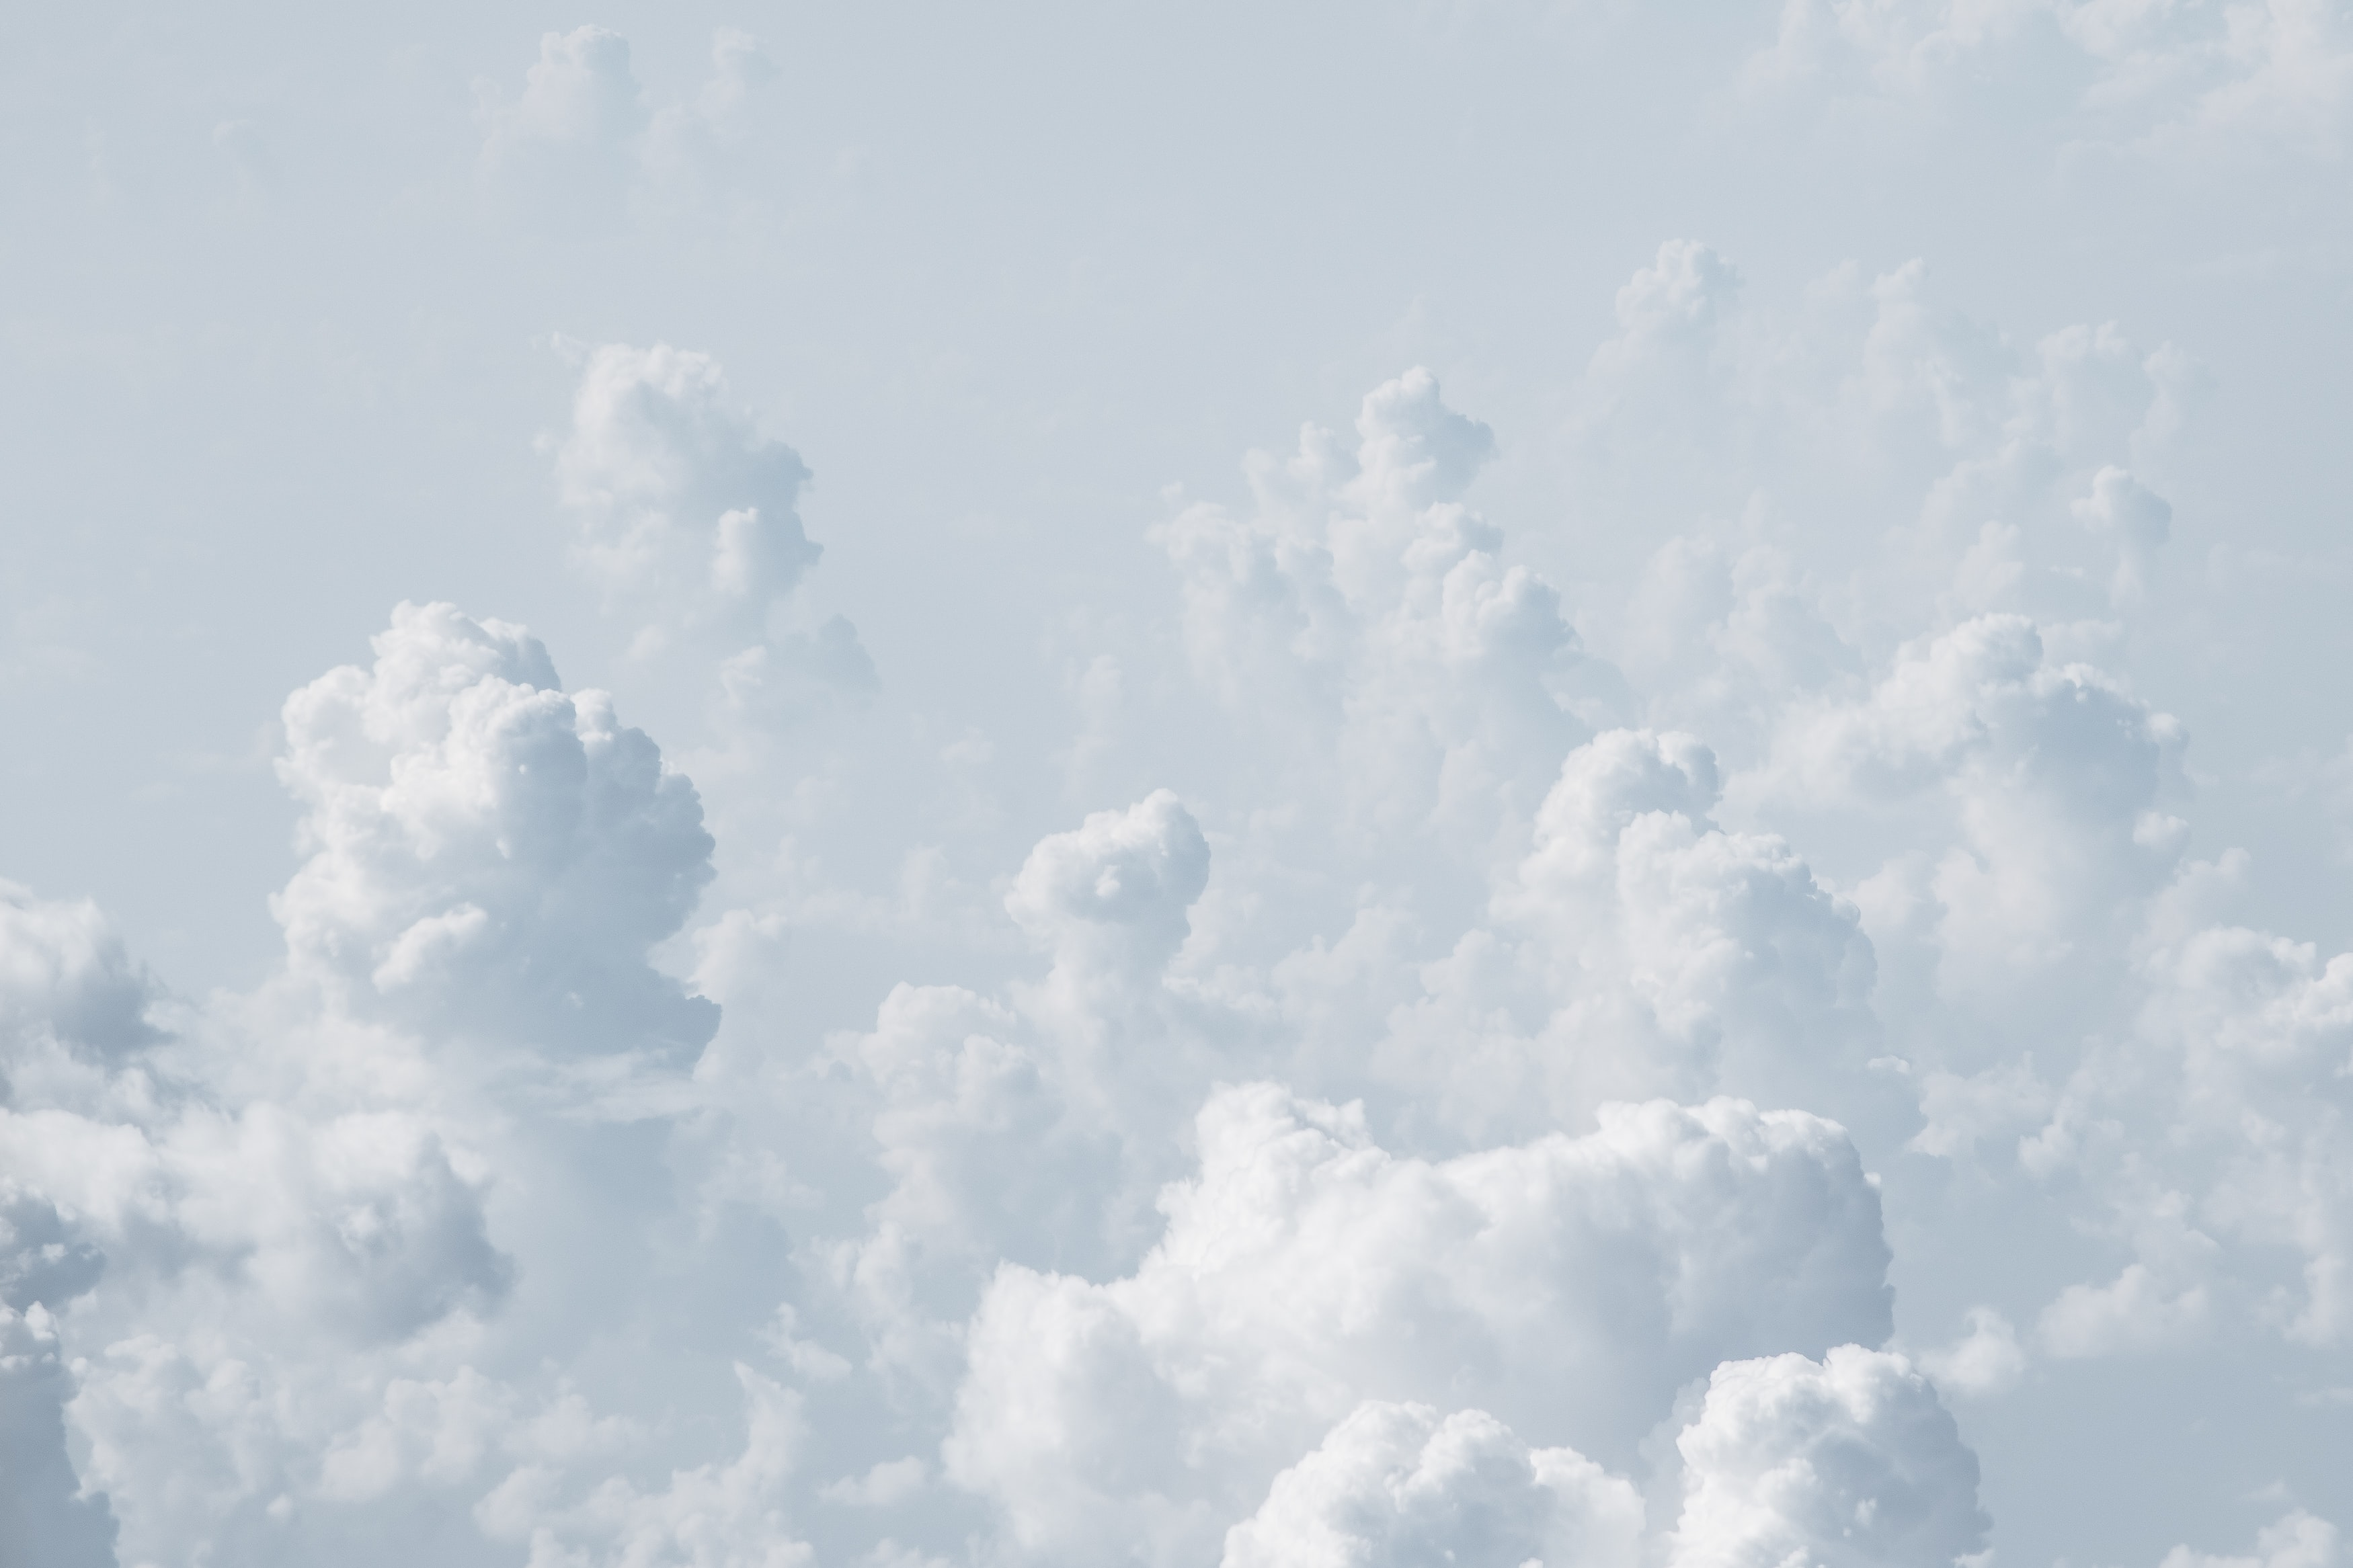
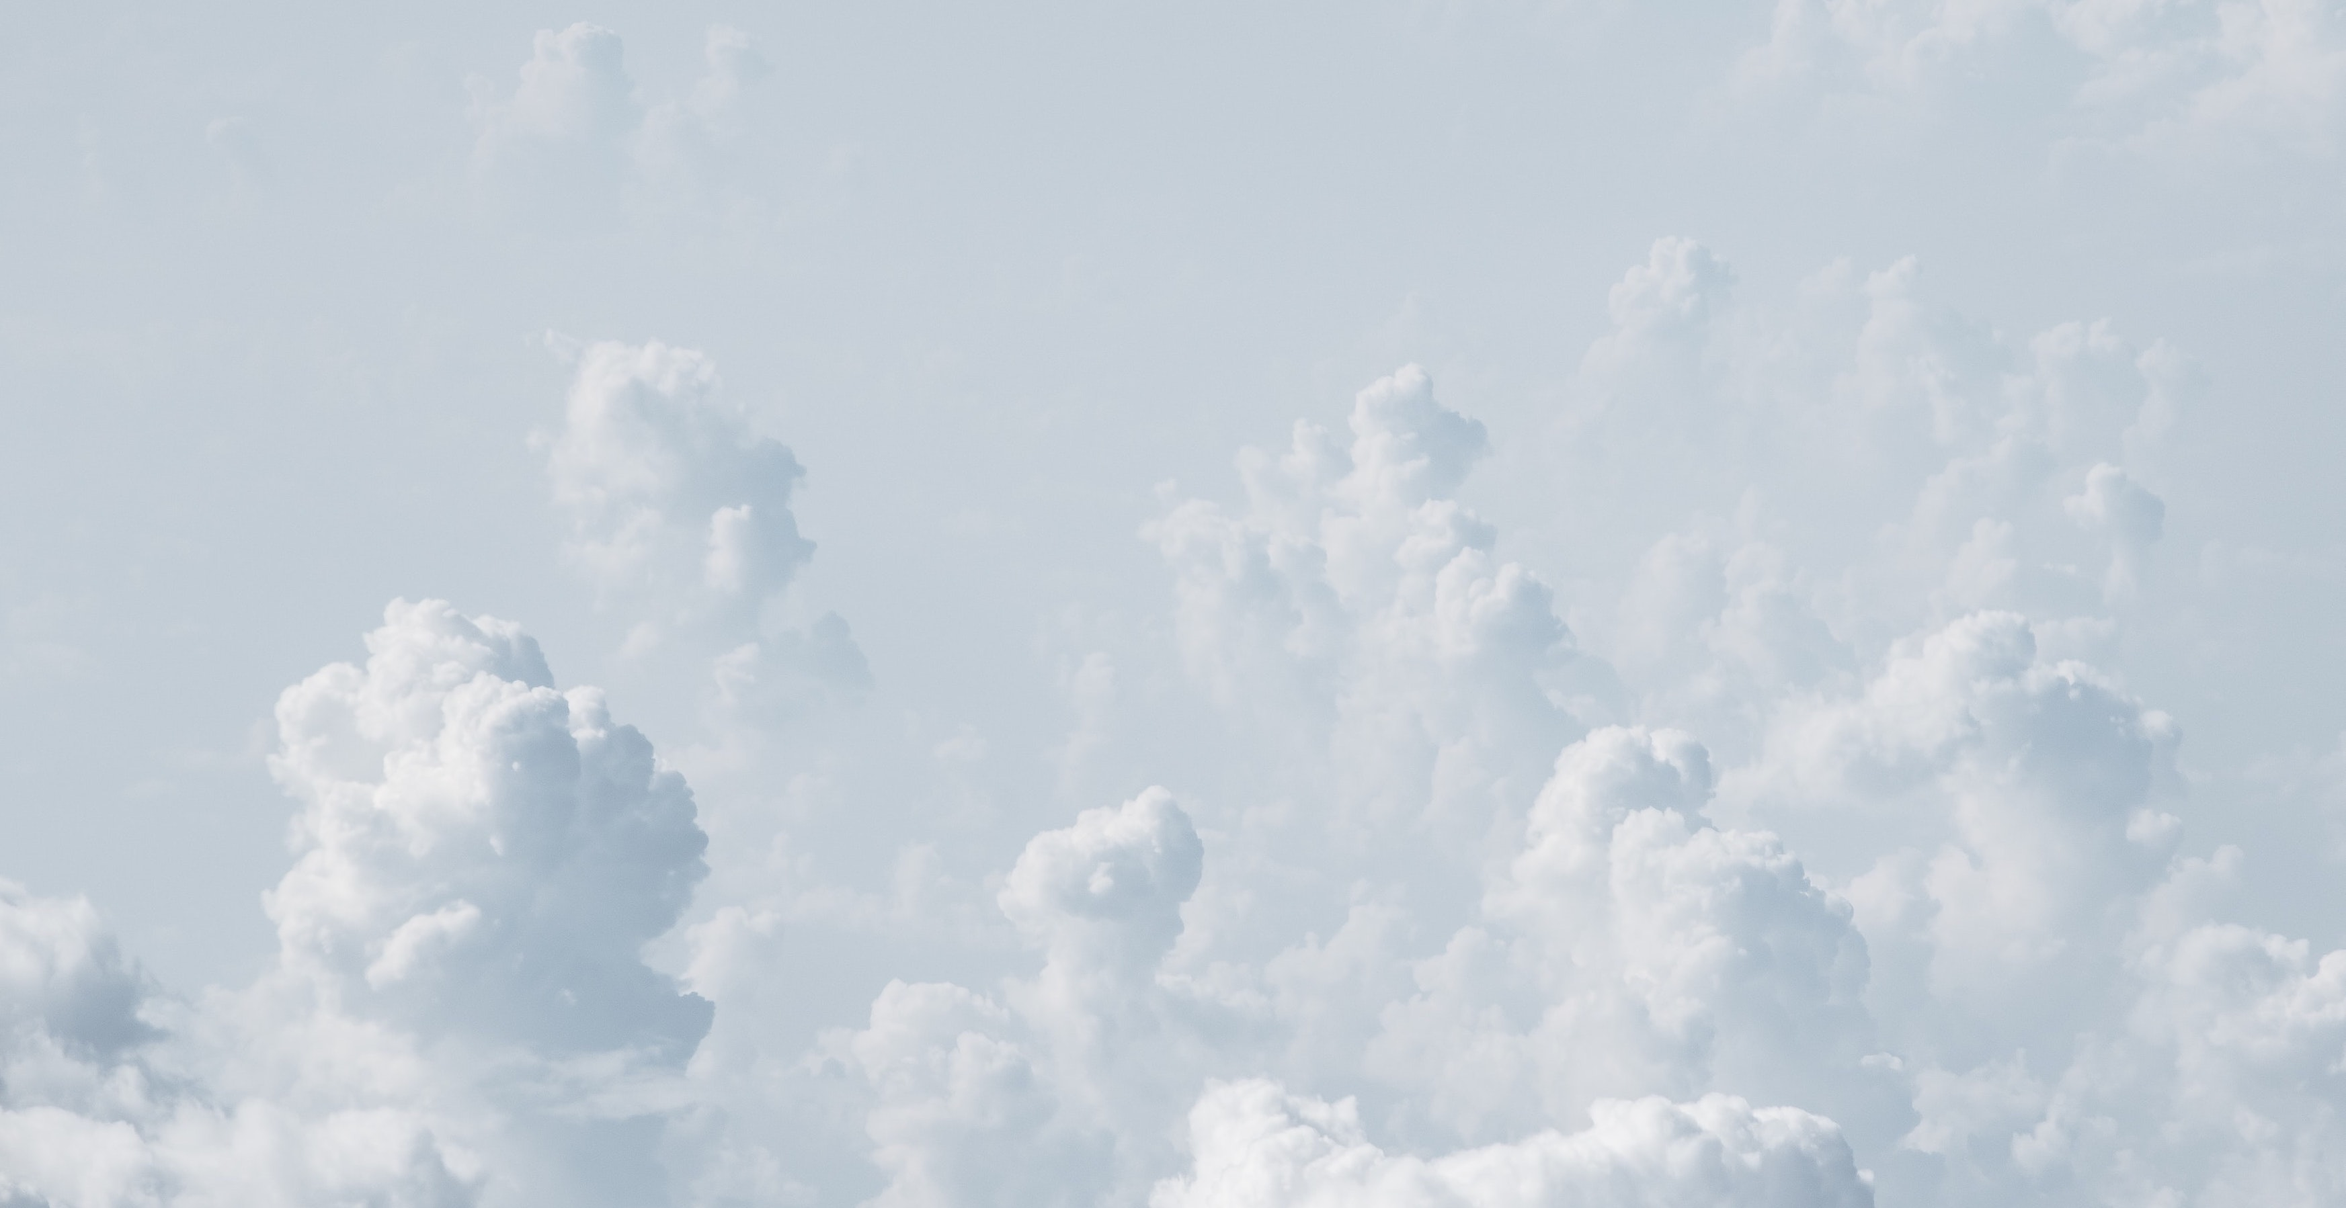
small change about spacer

diff --git a/src/components/SpacePhotosComponent/space-photos.module.css b/src/components/SpacePhotosComponent/space-photos.module.css
@@ -6,7 +6,7 @@
 .spacer {
   width: 80%;
   display: block;
-  margin: 2em auto;
+  margin: 0 auto;
   background-color: #edecec;
   border-top: 2px solid #f86624;
 }
@@ -19,6 +19,7 @@
   background-color: #bfbebe;
   width: 100vw;
   height: 60vh;
+  margin: 52px auto;
 }
 
 .spacePhotoImage {
@@ -52,16 +53,6 @@
 .spacePhotoMusic img:hover {
   filter: invert(46%) sepia(76%) saturate(2137%) hue-rotate(347deg)
     brightness(100%) contrast(95%);
-}
-
-.downBox {
-  height: 25px;
-  width: 60%;
-  display: block;
-  margin-left: auto;
-  margin-right: auto;
-  background-color: #edecec;
-  border-bottom: 2px solid #f86624;
 }
 
 @media screen and (min-width: 700px) {

diff --git a/src/sections/welcomeSection/welcome-section.jsx b/src/sections/welcomeSection/welcome-section.jsx
@@ -1,6 +1,6 @@
 import styles from "./welcomeSection.module.css";
 import FadingHeadlines from "../../components/fadingHeadlines/fading-headlines";
-import background from "../../assets/welcome-image4.jpeg";
+import background from "../../assets/welcome-image.jpeg";
 import LogoSection from "../../components/logoSection/logo-section";
 import { Parallax } from "react-scroll-parallax";
 
